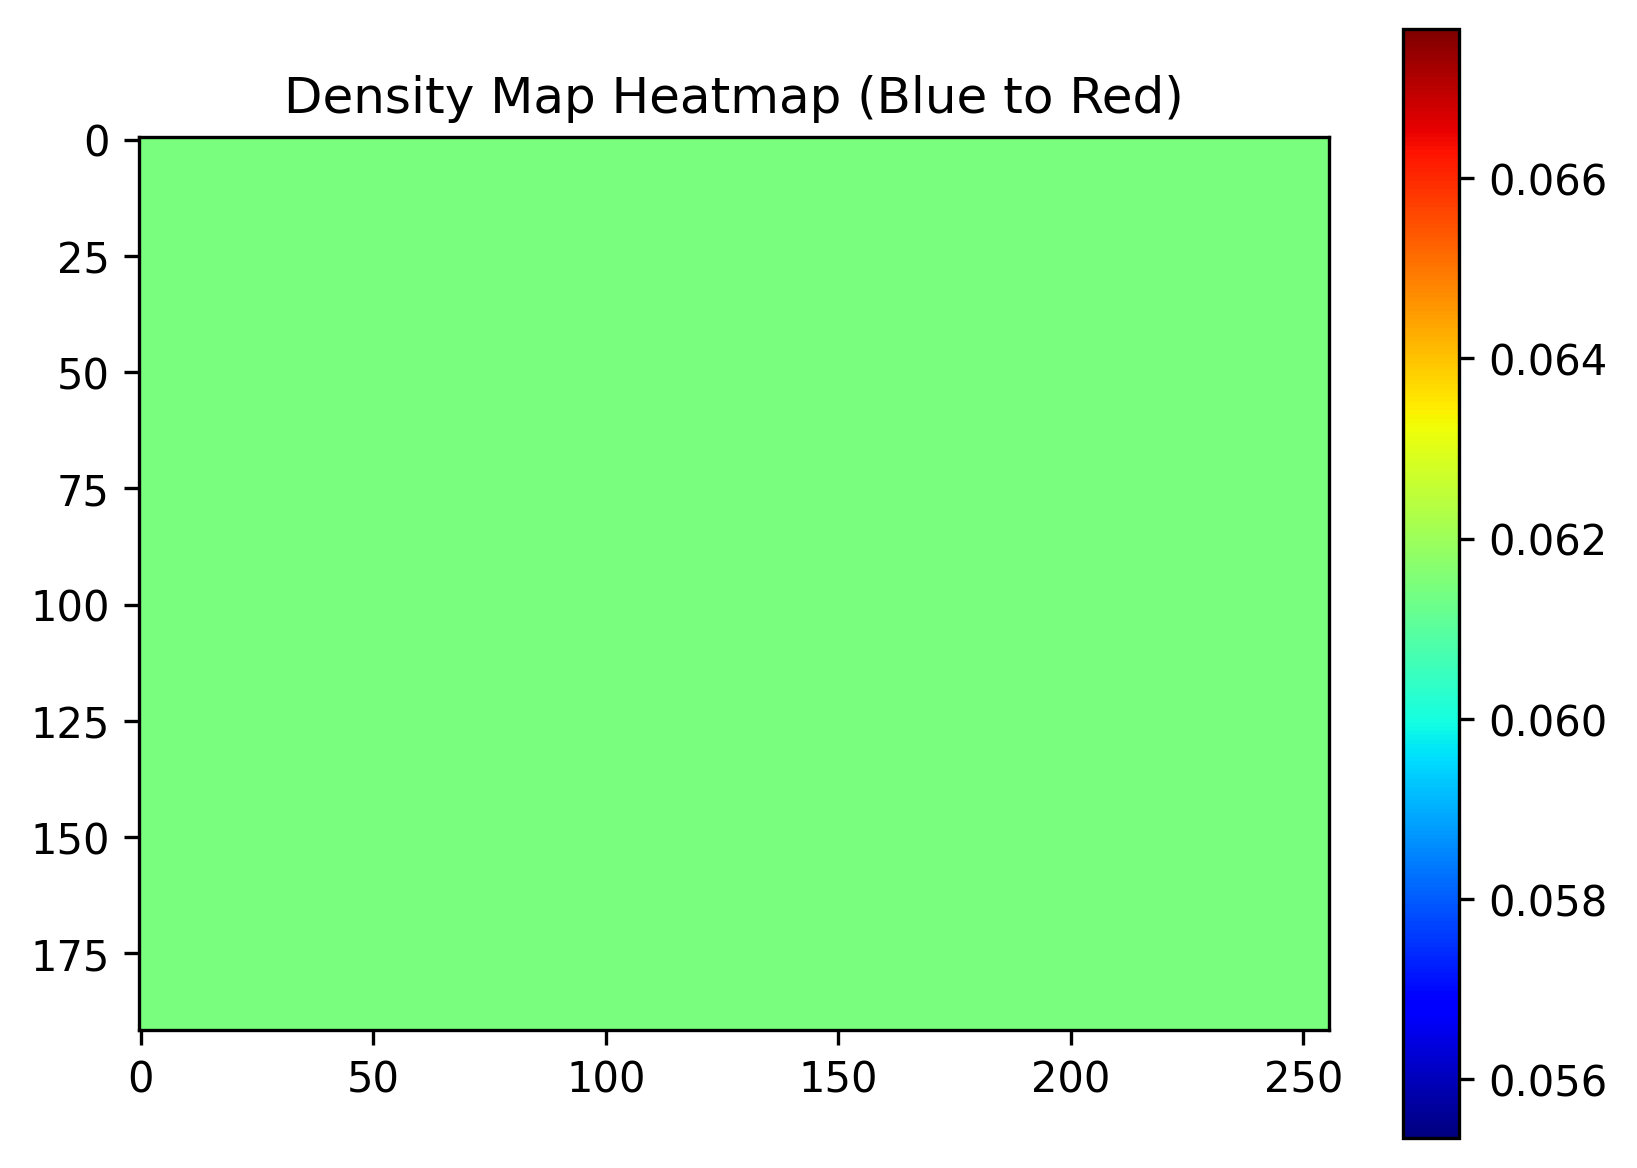
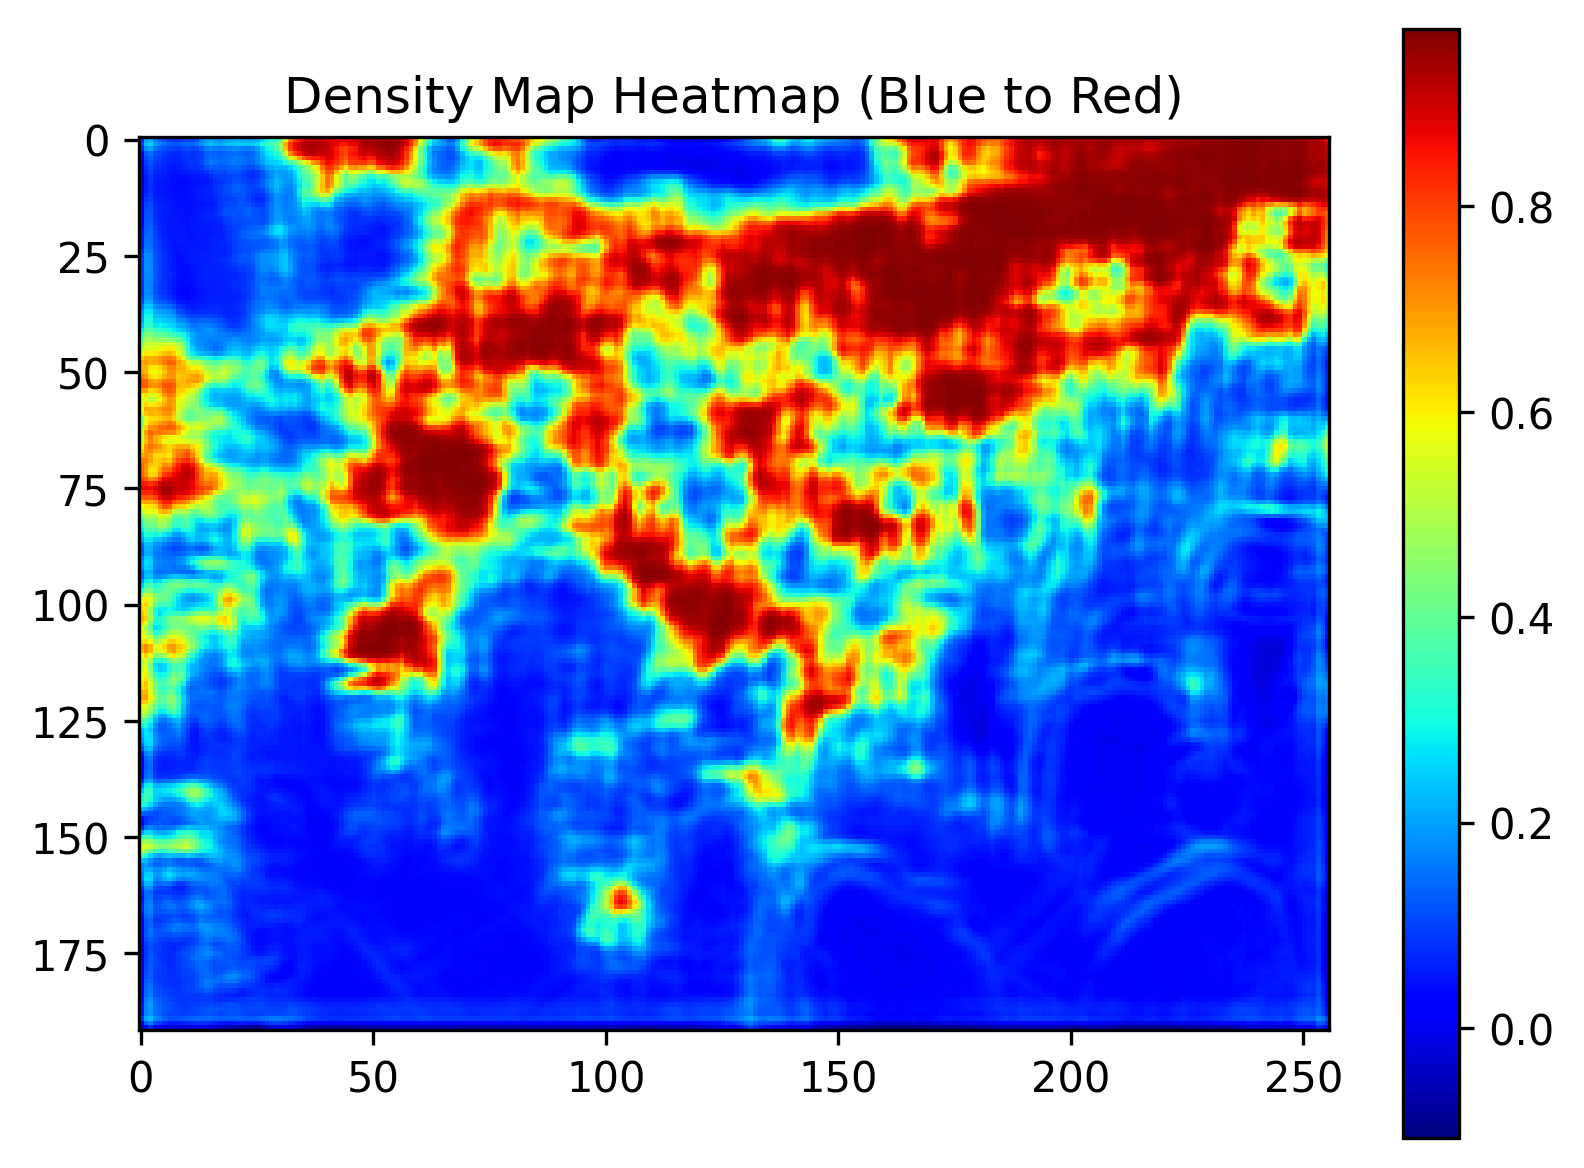
update files

diff --git a/src/model.py b/src/model.py
@@ -1,3 +1,4 @@
+from matplotlib import pyplot as plt
 import torch
 import torch.nn as nn
 import math
@@ -42,6 +43,7 @@ class MCNN(nn.Module):
                                      Conv2d(24, 12, 3, same_padding=True, bn=bn)).to(self.device)
         
         self.fuse = nn.Sequential(Conv2d( 30, 1, 1, same_padding=True, bn=bn)).to(self.device)
+        self.relu = nn.Sigmoid()
         
     def forward(self, input):
         output = {}
@@ -51,6 +53,8 @@ class MCNN(nn.Module):
         x3 = self.branch3(image)
         x = torch.cat((x1,x2,x3),1)
         x = self.fuse(x)
+        # x = self.relu(x)
+        x = x.squeeze(1)
         output["predict"] = x
         output["label"] = input["label"].to(self.device)
         return output
@@ -168,8 +172,14 @@ class MCNN(nn.Module):
     def compute_loss(self, input):
         output = {}
         mse_loss = nn.MSELoss()
-        mse = (input["predict"] - input["label"])**2
-        output["total_loss"] = (input["predict"]**5 *  mse).mean()
+        # density =  input["label"][0,:,:].cpu().numpy()
+        # plt.imshow(density, cmap='jet', interpolation='nearest')        
+        # plt.colorbar()
+        # plt.title("Density Map Heatmap (Blue to Red)")
+        # plt.savefig('train.png', dpi=300, bbox_inches='tight')
+        # plt.close()
+    
+        output["total_loss"] = mse_loss(input["predict"], input["label"])
         return output
 
     def train_one_epoch(self, epoch, train_dataloader, optimizer, clip_max_norm, log_path = None):
@@ -242,5 +252,7 @@ class MCNN(nn.Module):
             x3 = self.branch3(image)
             x = torch.cat((x1,x2,x3),1)
             density = self.fuse(x)
+            # density = self.relu(density)
+            # density = torch.clamp(density,0,1)
         density = density.cpu().squeeze(0)
         return density

diff --git a/eval.py b/eval.py
@@ -11,7 +11,7 @@ import matplotlib.pyplot as plt
 from scipy.ndimage import convolve
 sys.path.append(os.getcwd())
 
-def generate_density_map(mat_file_path, scale = 4, kernel_size = 16, sigma = 3):
+def generate_density_map(mat_file_path, scale = 4, kernel_size = 64, sigma = 16):
     mat = scipy.io.loadmat(mat_file_path)
     
     # 提取点标注数据 (x, y)
@@ -28,12 +28,14 @@ def generate_density_map(mat_file_path, scale = 4, kernel_size = 16, sigma = 3):
         if 0 <= x < w and 0 <= y < h:
             density_map[y, x] += 1
 
+    
     assert h % scale == 0 and w % scale == 0, "Height and width should be divisible by" + str(scale)
-    scale_density_map = density_map.reshape(h // scale, scale, w // scale, scale).sum(axis=(1, 3))
+    density_map = density_map.reshape(h // scale, scale, w // scale, scale).sum(axis=(1, 3))
+    
     kernel = gaussian_kernel(kernel_size, sigma)
-    gaussian_density_map = convolve(scale_density_map, kernel, mode='reflect')
+    density_map = convolve(density_map, kernel, mode='reflect')
 
-    return gaussian_density_map
+    return density_map*100
 
 def main(args):
     density = generate_density_map(args.mat_file_path)
@@ -69,7 +71,7 @@ def main(args):
 
 if __name__ == "__main__":
     parser = argparse.ArgumentParser()
-    parser.add_argument('--mat_file_path',type=str, default= "imgs/ShanghaiTech/part_A/train_data/ground-truth/GT_IMG_15.mat")
+    parser.add_argument('--mat_file_path',type=str, default= "imgs/ShanghaiTech/part_B/train_data/ground-truth/GT_IMG_15.mat")
     parser.add_argument('--model_cof',type=str, default="cof/eticn.yml")
     parser.add_argument('--output_path',type=str, default="ret.png")
     args = parser.parse_args()

diff --git a/inference.py b/inference.py
@@ -25,8 +25,9 @@ def main(args):
     density = density.squeeze(0).numpy()
 
     flattened_density = density.flatten()
+    print(density.sum())
     plt.figure(figsize=(8, 6))
-    plt.hist(flattened_density, bins=50, color='blue', edgecolor='black', alpha=0.7)
+    plt.hist(flattened_density, bins=200, color='blue', edgecolor='black', alpha=0.7)
     plt.xlabel('Density Value')
     plt.ylabel('Frequency')
     plt.title('Histogram of Density Values')
@@ -49,7 +50,7 @@ def main(args):
 
 if __name__ == "__main__":
     parser = argparse.ArgumentParser()
-    parser.add_argument('--image_path',type=str, default= "imgs/ShanghaiTech/part_B/train_data/images/IMG_1.jpg")
+    parser.add_argument('--image_path',type=str, default= "imgs/ShanghaiTech/part_B/train_data/images/IMG_15.jpg")
     parser.add_argument('--model_cof',type=str, default="cof/eticn.yml")
     parser.add_argument('--output_path',type=str, default="ret.png")
     args = parser.parse_args()

diff --git a/src/dataset.py b/src/dataset.py
@@ -84,7 +84,7 @@ class DatasetForDensity(DatasetForImageReader):
         self.label = np.array(label_data)
 
 
-    def generate_density_map(self,mat_file_path, scale = 4, kernel_size = 16, sigma = 3):
+    def generate_density_map(self,mat_file_path, scale = 4, kernel_size = 64, sigma = 8):
         mat = scipy.io.loadmat(mat_file_path)
         
         # 提取点标注数据 (x, y)
@@ -106,7 +106,7 @@ class DatasetForDensity(DatasetForImageReader):
         kernel = gaussian_kernel(kernel_size, sigma)
         gaussian_density_map = convolve(scale_density_map, kernel, mode='reflect')
 
-        return gaussian_density_map
+        return gaussian_density_map * 100
     
     def __len__(self):
         return self.total_samples

diff --git a/src/utils.py b/src/utils.py
@@ -8,7 +8,8 @@ class Conv2d(nn.Module):
         padding = int((kernel_size - 1) / 2) if same_padding else 0
         self.conv = nn.Conv2d(in_channels, out_channels, kernel_size, stride, padding=padding)
         self.bn = nn.BatchNorm2d(out_channels, eps=0.001, momentum=0, affine=True) if bn else None
-        self.relu = nn.ReLU(inplace=True) if relu else None
+        # self.relu = nn.ReLU(inplace=True) if relu else None
+        self.relu = nn.Tanh() if relu else None
 
     def forward(self, x):
         x = self.conv(x)
